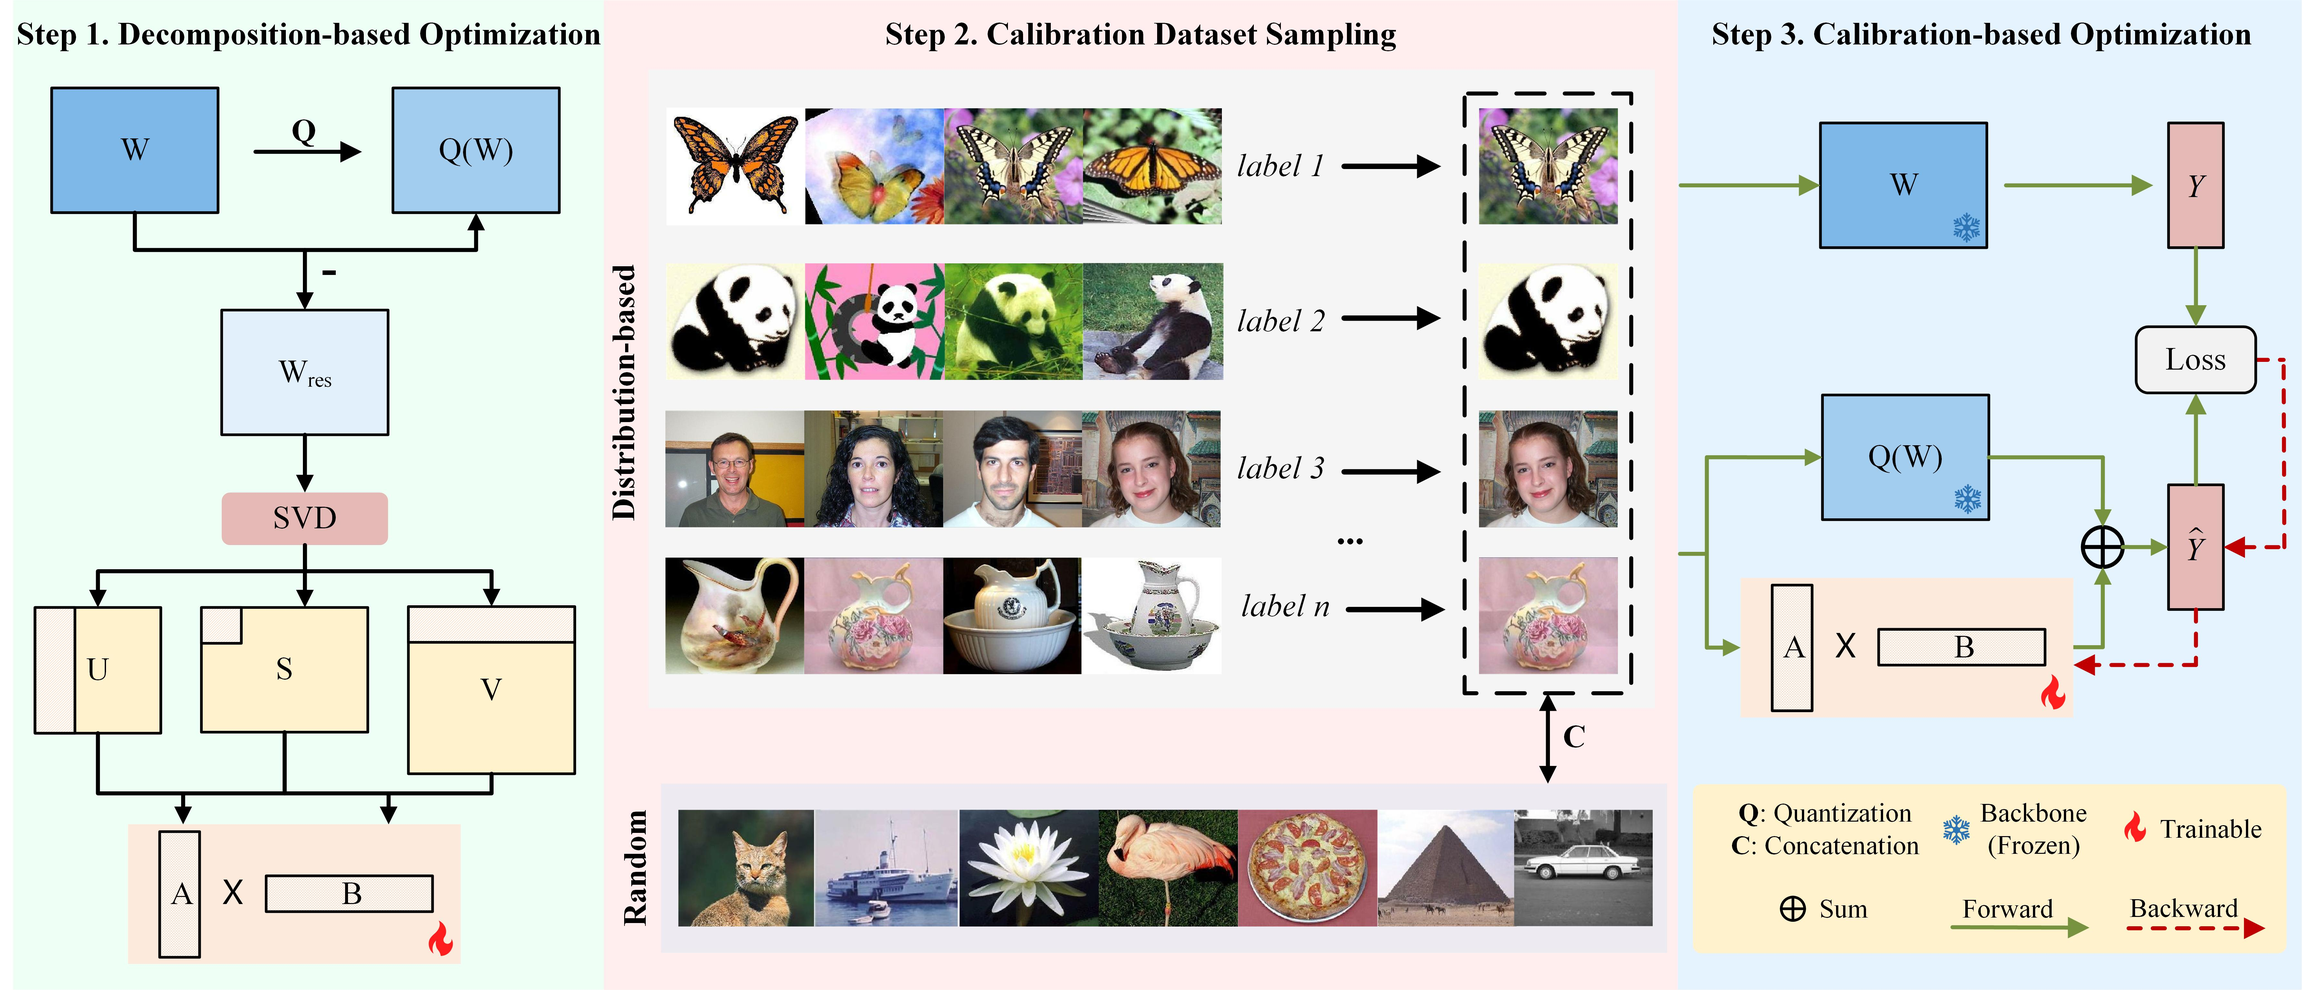
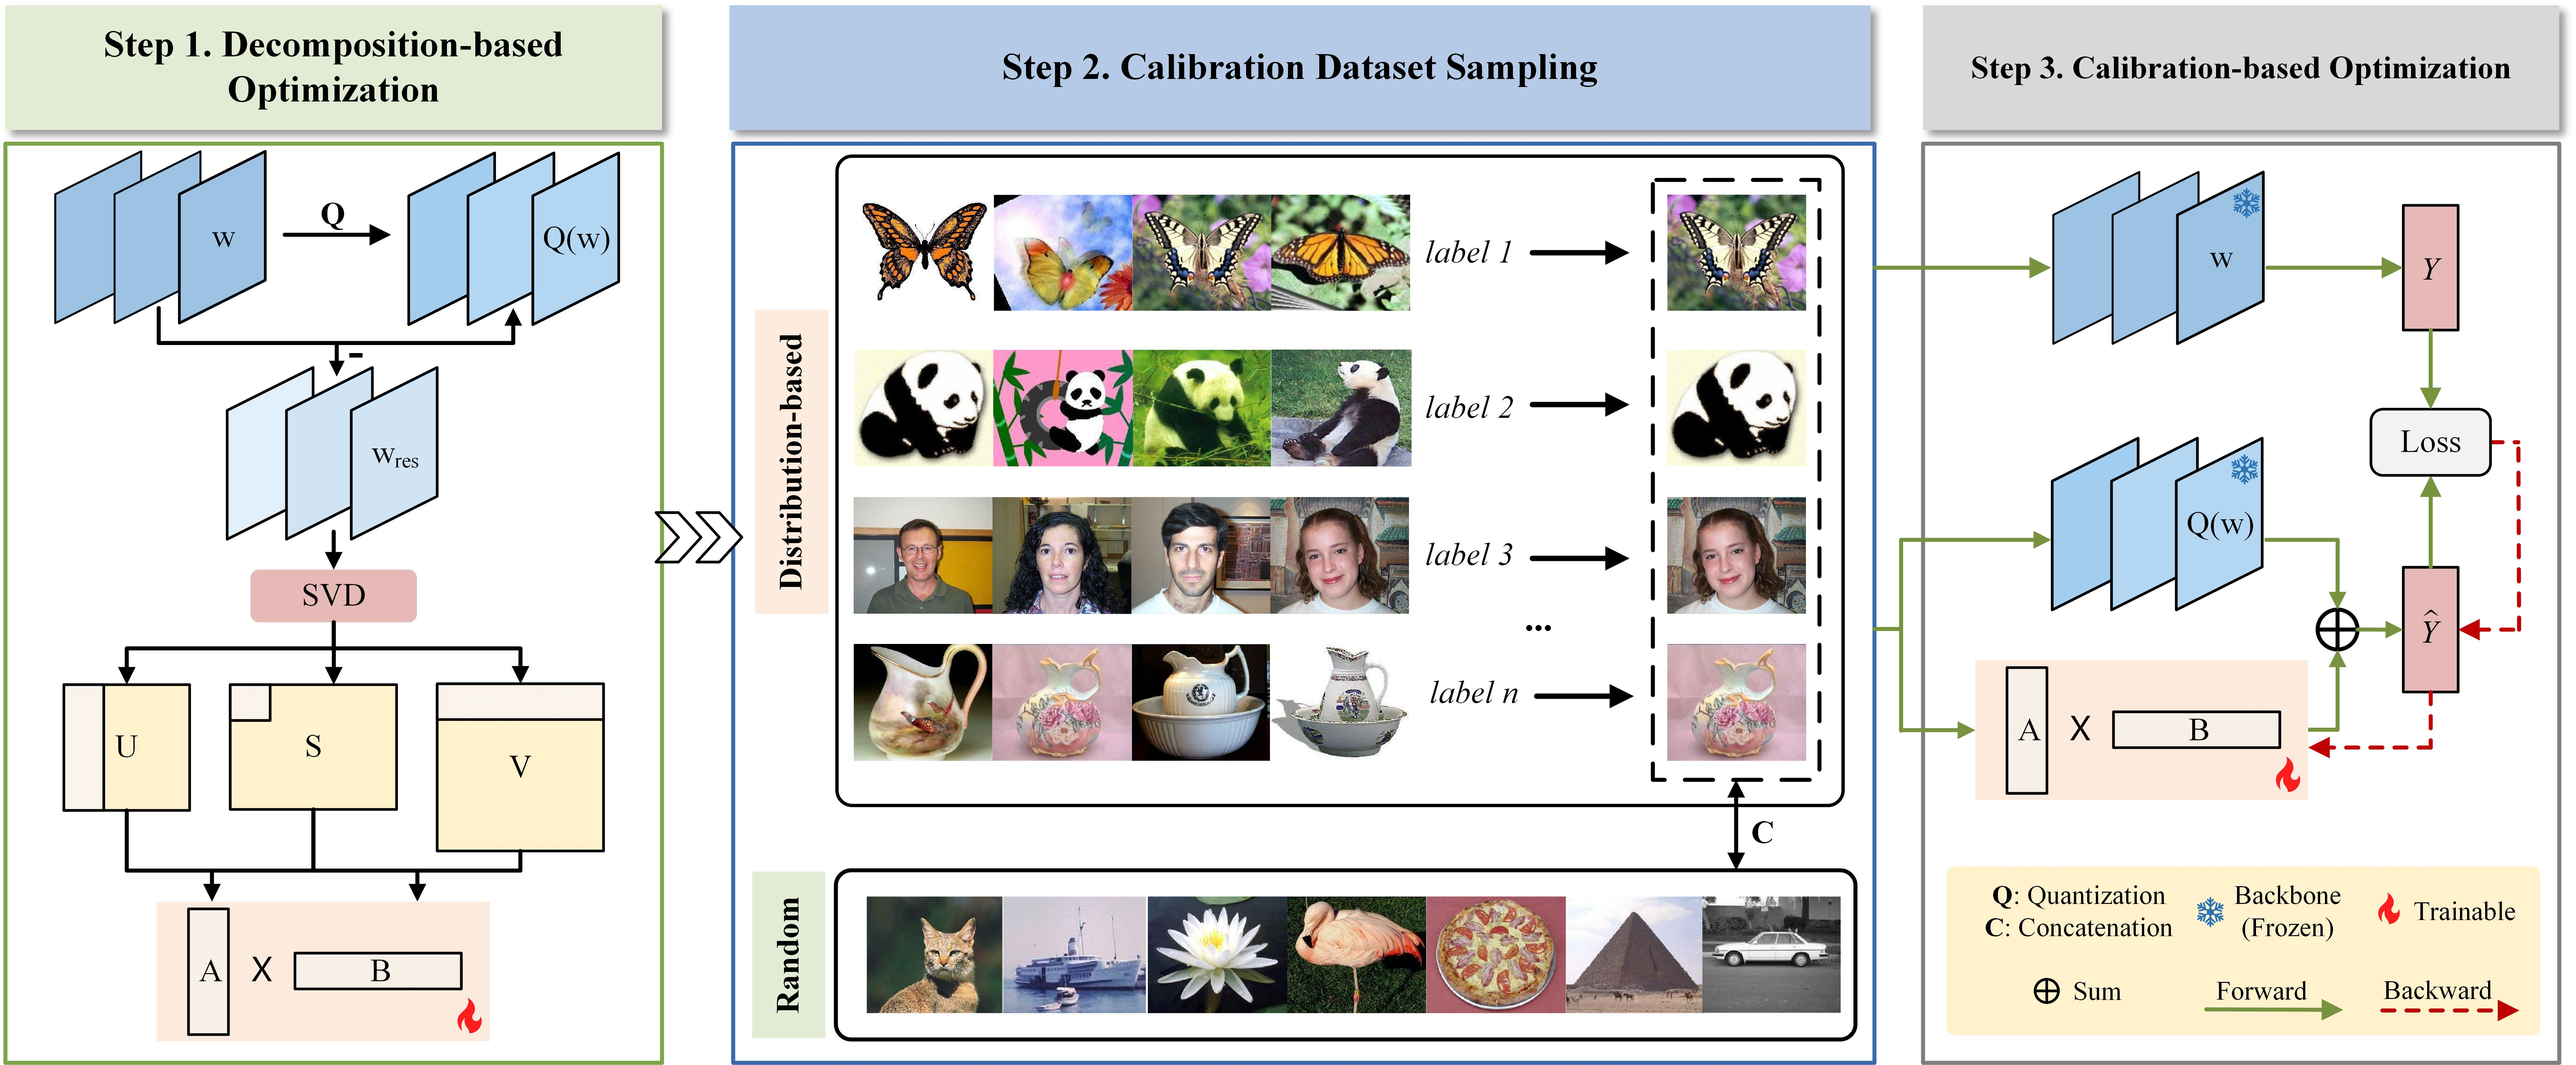
first commit

diff --git a/README.md b/README.md
@@ -2,7 +2,7 @@
 
 Source code of "OQFV: Optimized Quantization-Aware Fine-tuning for 2-bit Visual Transformer-based Model".
 
-![model2](./README.assets/model2.jpg)
+![OQFV](./README.assets/OQFV.jpg)
 
 # Requirements
 
